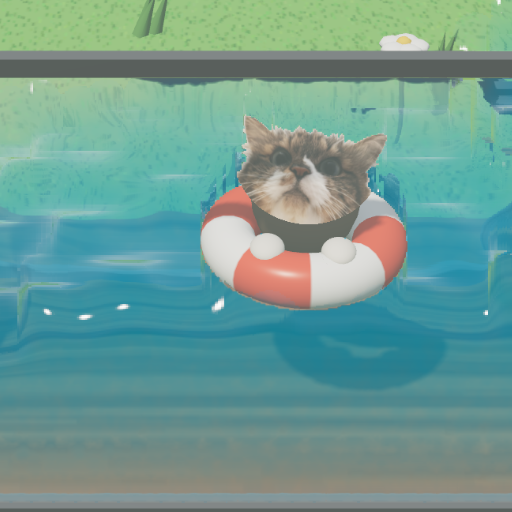
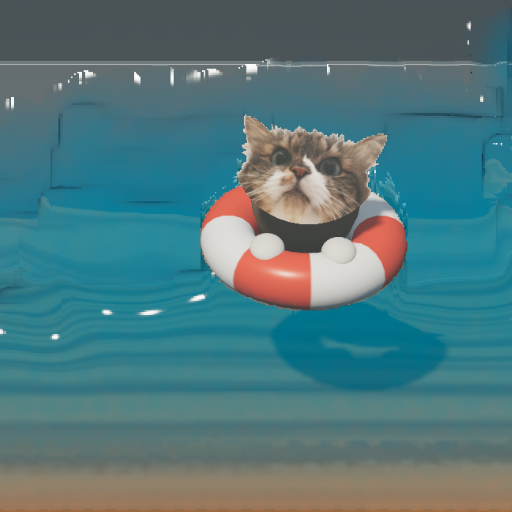
流体おもちゃ: 背景を暗めのシンプルな部屋にし、アイコンを撮り直す
Claude-Session: https://claude.ai/code/session_018pgCByxNPu7Ytwk2k16gTc

diff --git a/games/fluid-toy/index.html b/games/fluid-toy/index.html
@@ -24,16 +24,16 @@
     * { box-sizing: border-box; }
     html, body { margin: 0; height: 100%; }
     body {
-      background: #bfe3f5; color: #1f3340;
+      background: #1c262e; color: #e2ecf2;
       font-family: system-ui, -apple-system, "Hiragino Sans", "Noto Sans JP", "Noto Sans Thai", sans-serif;
       display: flex; flex-direction: column; overflow: hidden;
       -webkit-user-select: none; user-select: none;
     }
     header { display: flex; align-items: center; gap: 8px; padding: 10px 12px; }
-    header a { color: #1f3340; font-size: 14px; text-decoration: none; margin-right: auto; }
+    header a { color: #e2ecf2; font-size: 14px; text-decoration: none; margin-right: auto; }
     header button, header select {
-      background: #fff; border: 1px solid #9cc3d6; border-radius: 8px;
-      height: 34px; min-width: 40px; padding: 0 10px; font-size: 13px; color: #1f3340; cursor: pointer;
+      background: #2c3a45; border: 1px solid #4a5d6b; border-radius: 8px;
+      height: 34px; min-width: 40px; padding: 0 10px; font-size: 13px; color: #e2ecf2; cursor: pointer;
     }
     header svg { width: 18px; height: 18px; display: block; }
     #stage { position: relative; flex: 1; min-height: 0; overflow: hidden; }
@@ -51,7 +51,7 @@
     .post { background: #111; color: #fff; box-shadow: 0 4px 0 #000; }
     #post { flex: 1.3; }
     /* 切り抜き（塗った所だけ使う。タピオカメーカーと同じ） */
-    #stage #cut { position: absolute; inset: 0; display: none; cursor: crosshair; background: #e8f4f6; z-index: 2; }
+    #stage #cut { position: absolute; inset: 0; display: none; cursor: crosshair; background: #1c262e; z-index: 2; }
     #paintBar { display: none; }
     body.painting #stage #cut { display: block; }
     body.painting #controls { display: none; }
@@ -512,11 +512,12 @@
     stage.prepend(renderer.domElement);
     const scene = new THREE.Scene();
     const canvasTex = (w, h, draw) => { const c = document.createElement('canvas'); c.width = w; c.height = h; draw(c.getContext('2d'), w, h); const tx = new THREE.CanvasTexture(c); tx.colorSpace = THREE.SRGBColorSpace; return tx; };
-    const SKY_TOP = '#6fb8ef', SKY_HOR = '#d6eef7', GROUND = '#7fae5a';
-    scene.background = canvasTex(4, 256, (g, w, h) => { const gr = g.createLinearGradient(0, 0, 0, h); gr.addColorStop(0, SKY_TOP); gr.addColorStop(0.6, '#bfe3f5'); gr.addColorStop(1, '#eef8e8'); g.fillStyle = gr; g.fillRect(0, 0, w, h); });
-    scene.fog = new THREE.Fog('#dff0e6', 14, 38);
+    // 背景: 暗めの壁のグラデーションと、床だけのシンプルな部屋
+    const SKY_TOP = '#121a21', SKY_HOR = '#3a4955', GROUND = '#25313a';
+    scene.background = canvasTex(4, 256, (g, w, h) => { const gr = g.createLinearGradient(0, 0, 0, h); gr.addColorStop(0, SKY_TOP); gr.addColorStop(0.65, '#2a3843'); gr.addColorStop(1, SKY_HOR); g.fillStyle = gr; g.fillRect(0, 0, w, h); });
+    scene.fog = new THREE.Fog('#2c3a45', 9, 26);
     const camera = new THREE.PerspectiveCamera(40, 1, 0.1, 200);
-    scene.add(new THREE.HemisphereLight('#e8f4ff', '#5a7a3a', 1.1));
+    scene.add(new THREE.HemisphereLight('#c4d6e6', '#1e2830', 0.9));
     const sun = new THREE.DirectionalLight('#fff4e0', 2.4); sun.position.set(-3, 9, 5);
     sun.castShadow = true; sun.shadow.mapSize.set(1024, 1024); sun.shadow.radius = 4; sun.shadow.bias = -0.0008;
     Object.assign(sun.shadow.camera, { left: -4, right: 4, top: 4, bottom: -4, near: 1, far: 25 });
@@ -529,38 +530,17 @@
     const rnd = (a, b) => a + Math.random() * (b - a);
     const FLOOR = -2.45;
 
-    // テーブル（木目）と庭
+    // テーブル（木目）と床
     {
       const wood = canvasTex(512, 128, (c, w, h) => { c.fillStyle = '#a8703f'; c.fillRect(0, 0, w, h); for (let i = 0; i < 70; i++) { c.strokeStyle = `rgba(70,35,10,${0.08 + Math.random() * 0.2})`; c.lineWidth = 1 + Math.random() * 2.5; const y = Math.random() * h; c.beginPath(); c.moveTo(0, y); c.bezierCurveTo(w * .3, y + Math.random() * 8 - 4, w * .6, y + Math.random() * 8 - 4, w, y); c.stroke(); } });
       wood.wrapS = wood.wrapT = THREE.RepeatWrapping;
       const woodM = new THREE.MeshStandardMaterial({ map: wood, roughness: 0.6 });
       const top = part(BOXG, woodM, 0, -0.08, 0, 3.6, 0.16, 2.5, scene); top.receiveShadow = true; top.layers.enable(1);
       for (const [x, z] of [[-1.6, -1.05], [1.6, -1.05], [-1.6, 1.05], [1.6, 1.05]]) shade(part(BOXG, woodM, x, (FLOOR - 0.16) / 2, z, 0.16, -FLOOR - 0.16, 0.16, scene));
-      const grass = canvasTex(256, 256, (c, w, h) => { c.fillStyle = '#6cbf4a'; c.fillRect(0, 0, w, h); for (let i = 0; i < 2600; i++) { c.fillStyle = `hsl(${95 + Math.random() * 20},${45 + Math.random() * 20}%,${34 + Math.random() * 22}%)`; c.fillRect(Math.random() * w, Math.random() * h, 1.5, 3 + Math.random() * 3); } });
-      grass.wrapS = grass.wrapT = THREE.RepeatWrapping; grass.repeat.set(24, 24);
-      const ground = new THREE.Mesh(new THREE.CircleGeometry(40, 48), new THREE.MeshStandardMaterial({ map: grass, roughness: 1 }));
+      // 床: テーブルの下は少し明るく、遠くほど暗く
+      const floorTex = canvasTex(512, 512, (c, w, h) => { const gr = c.createRadialGradient(w / 2, h / 2, 0, w / 2, h / 2, w / 2); gr.addColorStop(0, '#4a5a66'); gr.addColorStop(0.08, '#36444f'); gr.addColorStop(0.3, '#232e36'); gr.addColorStop(1, '#1c262e'); c.fillStyle = gr; c.fillRect(0, 0, w, h); });
+      const ground = new THREE.Mesh(new THREE.CircleGeometry(40, 64), new THREE.MeshStandardMaterial({ map: floorTex, roughness: 0.9 }));
       ground.rotation.x = -Math.PI / 2; ground.position.y = FLOOR; ground.receiveShadow = true; scene.add(ground);
-      const tuft = new THREE.ConeGeometry(0.08, 0.45, 5), tuftM = mat('#4f9a35'), petal = new THREE.SphereGeometry(0.11, 8, 6), stemM = mat('#4f9a35'), heartM = mat('#ffcf3a');
-      for (let i = 0; i < 80; i++) {
-        const a = Math.random() * Math.PI * 2, d = rnd(2.4, 8);
-        const x = Math.cos(a) * d, z = Math.sin(a) * d;
-        if (Math.random() < 0.35) {
-          const f = new THREE.Group(); f.position.set(x, FLOOR, z);
-          part(CYLG, stemM, 0, 0.22, 0, 0.02, 0.45, 0.02, f);
-          const fc = mat(pick(['#ffffff', '#ffd23a', '#ff8ab0', '#ff6a4a', '#b08aff']));
-          for (let k = 0; k < 5; k++) part(petal, fc, Math.cos(k * 1.26) * 0.1, 0.47, Math.sin(k * 1.26) * 0.1, 1, 0.5, 1, f);
-          part(petal, heartM, 0, 0.5, 0, 0.6, 0.5, 0.6, f);
-          scene.add(f);
-        } else for (let k = 0; k < 3; k++) { const m = part(tuft, tuftM, x + rnd(-.1, .1), FLOOR + 0.2, z + rnd(-.1, .1), 1, rnd(0.7, 1.3), 1); m.rotation.z = rnd(-.4, .4); scene.add(m); }
-      }
-      const leaf = mat('#3f8f3a'), trunk = mat('#7a4a28');
-      for (let i = 0; i < 16; i++) {
-        const a = Math.PI * (1.05 + 0.9 * i / 15) + rnd(-0.05, 0.05), d = rnd(11, 18);
-        const tr = new THREE.Group(); tr.position.set(Math.cos(a) * d, FLOOR, Math.sin(a) * d); tr.scale.setScalar(rnd(1, 1.6));
-        part(CYLG, trunk, 0, 0.8, 0, 0.25, 1.6, 0.25, tr);
-        part(SPHG, leaf, 0, 2.3, 0, 1.3, 1.2, 1.3, tr); part(SPHG, leaf, 0.6, 1.9, 0.3, 0.8, 0.8, 0.8, tr); part(SPHG, leaf, -0.6, 2.0, -0.2, 0.9, 0.8, 0.9, tr);
-        scene.add(tr);
-      }
     }
 
     // 水槽: 縁のないガラス。角はうっすら光る線だけにして、水や猫の邪魔をしない
